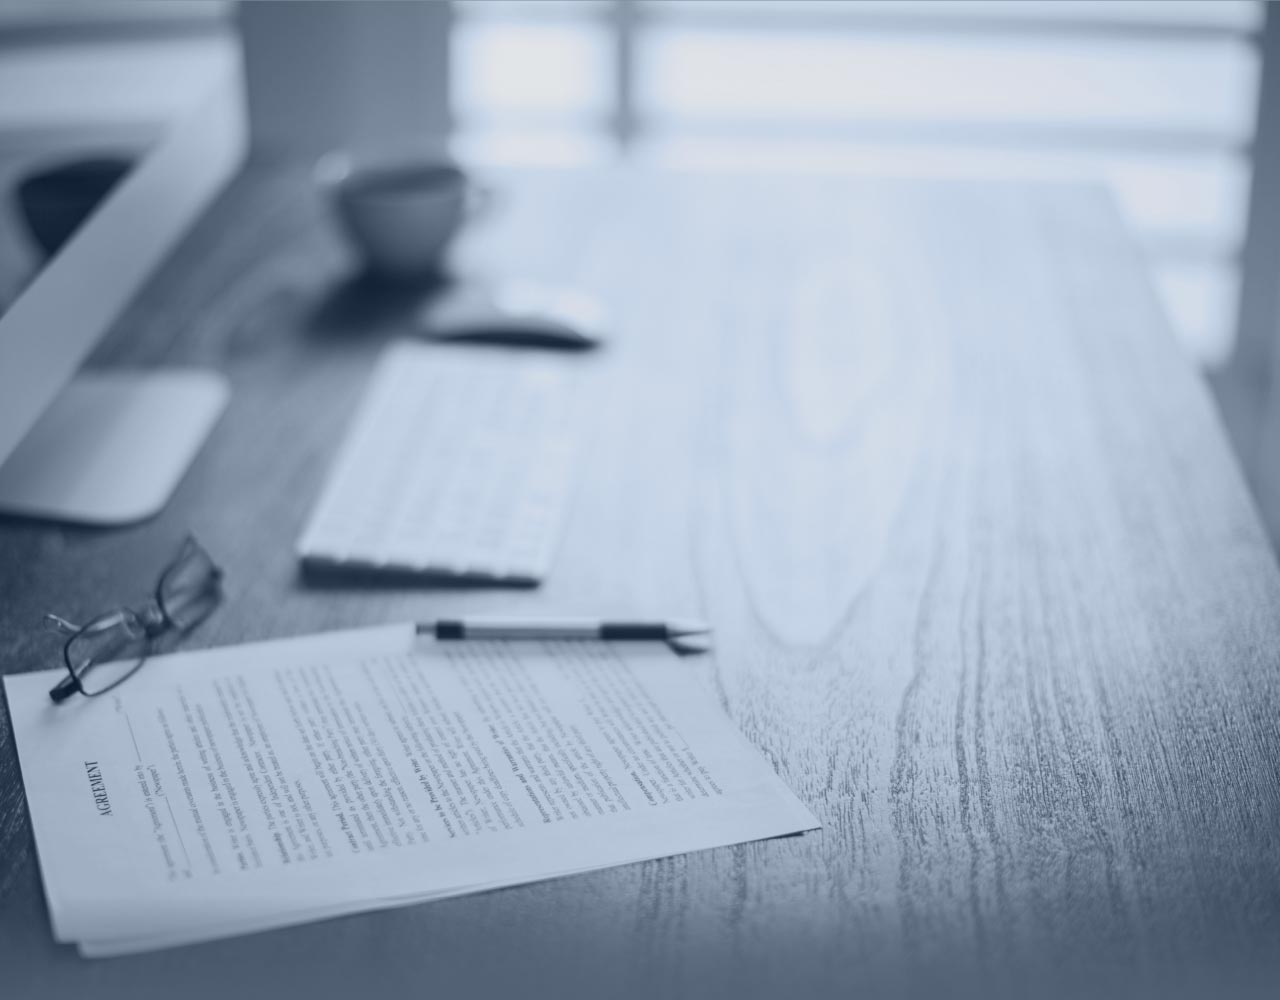
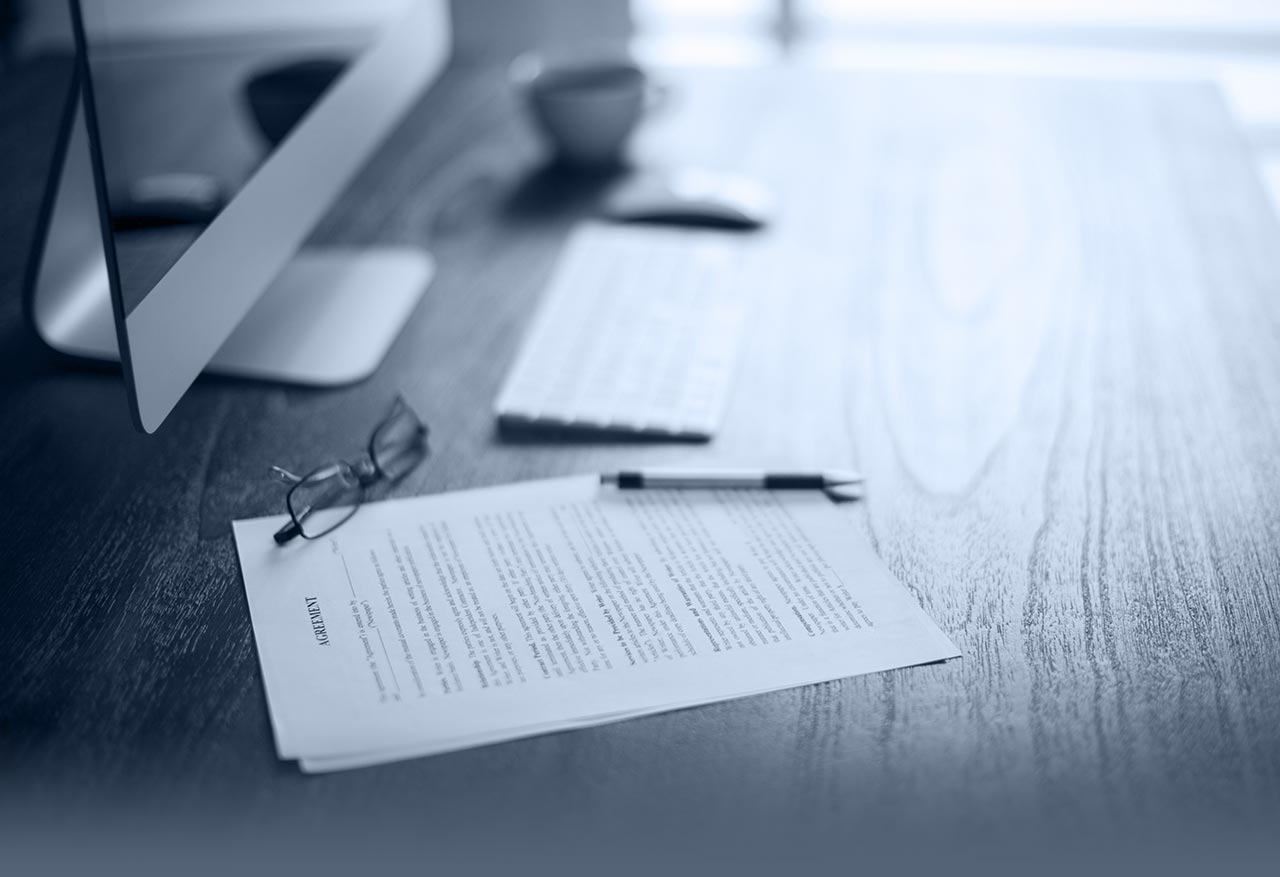
updated background images

diff --git a/src/assets/js/carousel.js b/src/assets/js/carousel.js
@@ -1,55 +1,1 @@
-$(function(){
-  // vars for testimonials carousel
-  var $txtcarousel = $('#testimonial-list');
-  var txtcount = $txtcarousel.children().length;
-  var wrapwidth = (txtcount * 415) + 415; // 400px width for each testimonial item
-  $txtcarousel.css('width',wrapwidth);
-  var animtime = 750; // milliseconds for clients carousel
- 
-  // prev & next btns for testimonials
-  $('#prv-testimonial').on('click', function(){
-    var $last = $('#testimonial-list li:last');
-    $last.remove().css({ 'margin-left': '-415px' });
-    $('#testimonial-list li:first').before($last);
-    $last.animate({ 'margin-left': '0px' }, animtime); 
-  });
-  
-  $('#nxt-testimonial').on('click', function(){
-    var $first = $('#testimonial-list li:first');
-    $first.animate({ 'margin-left': '-415px' }, animtime, function() {
-      $first.remove().css({ 'margin-left': '0px' });
-      $('#testimonial-list li:last').after($first);
-    });  
-  });
-
-
-  // vars for clients list carousel
-  // http://stackoverflow.com/questions/6759494/jquery-function-definition-in-a-carousel-script
-  var $clientcarousel = $('#clients-list');
-  var clients = $clientcarousel.children().length;
-  var clientwidth = (clients * 140); // 140px width for each client item 
-  $clientcarousel.css('width',clientwidth);
-  
-  var rotating = true;
-  var clientspeed = 1800;
-  var seeclients = setInterval(rotateClients, clientspeed);
-  
-  $(document).on({
-    mouseenter: function(){
-      rotating = false; // turn off rotation when hovering
-    },
-    mouseleave: function(){
-      rotating = true;
-    }
-  }, '#clients');
-  
-  function rotateClients() {
-    if(rotating != false) {
-      var $first = $('#clients-list li:first');
-      $first.animate({ 'margin-left': '-140px' }, 600, function() {
-        $first.remove().css({ 'margin-left': '0px' });
-        $('#clients-list li:last').after($first);
-      });
-    }
-  }
-});
+!function(t){function e(t,e){if(!t)throw new Error("Missing selector. Refer to Usage documentation: https://github.com/peduarte/wallop#javascript");for(var s=0;s<l.length;s++)if(l[s]===t)throw new Error("An instance of Wallop with this selector already exists.");if(this.options={buttonPreviousClass:"Wallop-buttonPrevious",buttonNextClass:"Wallop-buttonNext",itemClass:"testimonial__carousel-item",currentItemClass:"testimonial__carousel-item--current",showPreviousClass:"testimonial__carousel-item--showPrevious",showNextClass:"testimonial__carousel-item--showNext",hidePreviousClass:"testimonial__carousel-item--hidePrevious",hideNextClass:"testimonial__carousel-item--hideNext",carousel:!0},this.whitelist={form:!0},t.length>0&&!this.whitelist[t])throw new Error("Selector cannot be an array, Refer to Usage documentation: https://github.com/peduarte/wallop#javascript");this.$selector=t,this.options=n(this.options,e),this.event=null,this.reset(),this.buttonPrevious=this.$selector.querySelector(" ."+this.options.buttonPreviousClass),this.buttonNext=this.$selector.querySelector(" ."+this.options.buttonNextClass),this.bindEvents(),this.createCustomEvent(),this.currentItemIndex===-1&&(this.currentItemIndex=0,i(this.allItemsArray[this.currentItemIndex],this.options.currentItemClass)),this.updateButtonStates();var o=this;setTimeout(function(){o.event.detail.currentItemIndex=o.currentItemIndex,o.$selector.dispatchEvent(o.event)},0)}function s(t,e){if(t)return e||(e=document),e.querySelector("."+t)}function i(t,e){t&&(t.className=(t.className+" "+e).trim())}function o(t,e){t&&(t.className=t.className.replace(e,"").trim())}function n(t,e){var s,i={};for(s in t)i[s]=t[s];for(s in e)i[s]=e[s];return i}function r(t,e){e=e||{bubbles:!1,cancelable:!1,detail:void 0};var s=document.createEvent("CustomEvent");return s.initCustomEvent(t,e.bubbles,e.cancelable,e.detail),s}var l=[],u=e.prototype;u.updateButtonStates=function(){!this.buttonPrevious&&!this.buttonNext||this.options.carousel||(this.currentItemIndex===this.lastItemIndex?this.buttonNext.setAttribute("disabled","disabled"):0===this.currentItemIndex&&this.buttonPrevious.setAttribute("disabled","disabled"))},u.removeAllHelperSettings=function(){o(this.allItemsArray[this.currentItemIndex],this.options.currentItemClass),o(s(this.options.hidePreviousClass,this.$selector),this.options.hidePreviousClass),o(s(this.options.hideNextClass,this.$selector),this.options.hideNextClass),o(s(this.options.showPreviousClass,this.$selector),this.options.showPreviousClass),o(s(this.options.showNextClass,this.$selector),this.options.showNextClass),(this.buttonPrevious||this.buttonNext)&&(this.buttonPrevious.removeAttribute("disabled"),this.buttonNext.removeAttribute("disabled"))},u.goTo=function(t){if(t!==this.currentItemIndex&&(t=t===-1&&this.options.carousel?this.lastItemIndex:t,t=t===this.lastItemIndex+1&&this.options.carousel?0:t,!(t<0||t>this.lastItemIndex))){this.removeAllHelperSettings();var e=(t>this.currentItemIndex||0===t&&this.currentItemIndex===this.lastItemIndex)&&!(t===this.lastItemIndex&&0===this.currentItemIndex);i(this.allItemsArray[this.currentItemIndex],e?this.options.hidePreviousClass:this.options.hideNextClass),i(this.allItemsArray[t],this.options.currentItemClass+" "+(e?this.options.showNextClass:this.options.showPreviousClass)),this.currentItemIndex=t,this.updateButtonStates(),this.event.detail.currentItemIndex=this.currentItemIndex,this.$selector.dispatchEvent(this.event)}},u.previous=function(){this.goTo(this.currentItemIndex-1)},u.next=function(){this.goTo(this.currentItemIndex+1)},u.reset=function(){this.allItemsArray=Array.prototype.slice.call(this.$selector.querySelectorAll(" ."+this.options.itemClass)),this.currentItemIndex=this.allItemsArray.indexOf(this.$selector.querySelector(" ."+this.options.currentItemClass)),this.lastItemIndex=this.allItemsArray.length-1},u.bindEvents=function(){l.push(this.$selector);var t=this;this.buttonPrevious&&this.buttonPrevious.addEventListener("click",function(e){e.preventDefault(),t.previous()}),this.buttonNext&&this.buttonNext.addEventListener("click",function(e){e.preventDefault(),t.next()})},u.on=function(t,e){this.$selector.addEventListener(t,e,!1)},u.off=function(t,e){this.$selector.removeEventListener(t,e,!1)},u.createCustomEvent=function(){var t=this;this.event=new r("change",{detail:{wallopEl:t.$selector,currentItemIndex:Number(t.currentItemIndex)},bubbles:!0,cancelable:!0})},r.prototype=window.CustomEvent?window.CustomEvent.prototype:{},window.CustomEvent=r,"function"==typeof define&&define.amd?define(function(){return e}):"undefined"!=typeof module&&module.exports?module.exports=e:t.Wallop=e}(this);

diff --git a/src/assets/scss/components/_callout.scss b/src/assets/scss/components/_callout.scss
@@ -3,7 +3,7 @@
    color: #fff;
    text-align: center;
    @include smoothFont;
-   background: $blue url(../img/darkbg-callout_client-meeting.jpg) no-repeat 25%;
+   background: $blue url(../img/bg_tesimonials.jpg) no-repeat 25%;
    background-size: cover;
    @media (min-width: $small) {
       background: $blue;
@@ -13,13 +13,14 @@
 }
 .callout__text {
    position: relative;
+   overflow: hidden;
    display: inline-block;
    padding: 5% 12% 0 12%;
    font-size: .85em;
    @media (min-width: $small) {
       width: 34%;
       padding: 100px 8% 0 8%;
-      min-height: 500px;
+      min-height: 497px;
    }
    @media (min-width: $medium) {
           font-size: 1em;
@@ -31,7 +32,7 @@
       width: 50%;
       float: right;
       min-height: 600px;
-      background: $blue url(../img/callout_client-meeting.jpg) no-repeat 25%;
+      background: $blue url(../img/bg_tesimonials.jpg) no-repeat 25%;
       background-size: cover;
    }
 }
@@ -54,9 +55,9 @@
 .callout__cta {
    @extend .hero__cta;
 }
-.Wallop-item {
+.testimonial__carousel-item {
   display: none ;
 }
-.Wallop-item--current {
+.testimonial__carousel-item--current {
   display: block;
 }

diff --git a/src/assets/scss/components/_hero.scss b/src/assets/scss/components/_hero.scss
@@ -34,11 +34,11 @@
    }
  }
 @media (min-width: $small) {
-   .hero {  
+   .hero {
       background-attachment: fixed;
       .hero__statement {
         font-size: 2em;
-        max-width: 600px;        
+        max-width: 600px;
       }
     }
    .main__hero-services {
@@ -59,8 +59,9 @@
   @media (min-width: $small) {
     background: none;
     padding: 0 0 2.5%;
-    border-bottom: 20px solid $dkblue; 
-  }       
+    border-bottom: 20px solid $dkblue;
+  }
+  a {text-decoration: none;}
 }
 .services-grid__service {
    display: block;
@@ -69,7 +70,7 @@
    padding: 15% 10%;
    border-bottom: 1px solid $blue;
    margin: 0 auto;
-   font-size: 1rem; 
+   font-size: 1rem;
    background: $dkblue;
    opacity: .95;
    font-family: $sans;
@@ -100,7 +101,7 @@
          }
       }
    }
-} 
+}
 .services-grid__service-heading {
    @include capSans;
    font-weight: 900;
@@ -133,10 +134,10 @@
    opacity: 1;
 }
 .services-grid__service-cta {
-  display: inline-block;        
+  display: inline-block;
   font-size: .8em;
   color: $yellow;
-  @include capSans;  
+  @include capSans;
   font-weight: 700;
   opacity: 1;
   @media (min-width: $small) {

diff --git a/src/assets/scss/components/_services.scss b/src/assets/scss/components/_services.scss
@@ -37,7 +37,7 @@
       display: inline-block;
       padding: 1.5em;
       color: #fff;
-      text-decoration: none !important;
+      text-decoration: none;
    }
    &:hover, &.active {
       background: $yellow !important;
@@ -141,4 +141,7 @@
       width: 75%;
       padding: 60px 60px 30px;
    }
+}
+.services-grid__grid {
+  text-decoration: none;
 }
